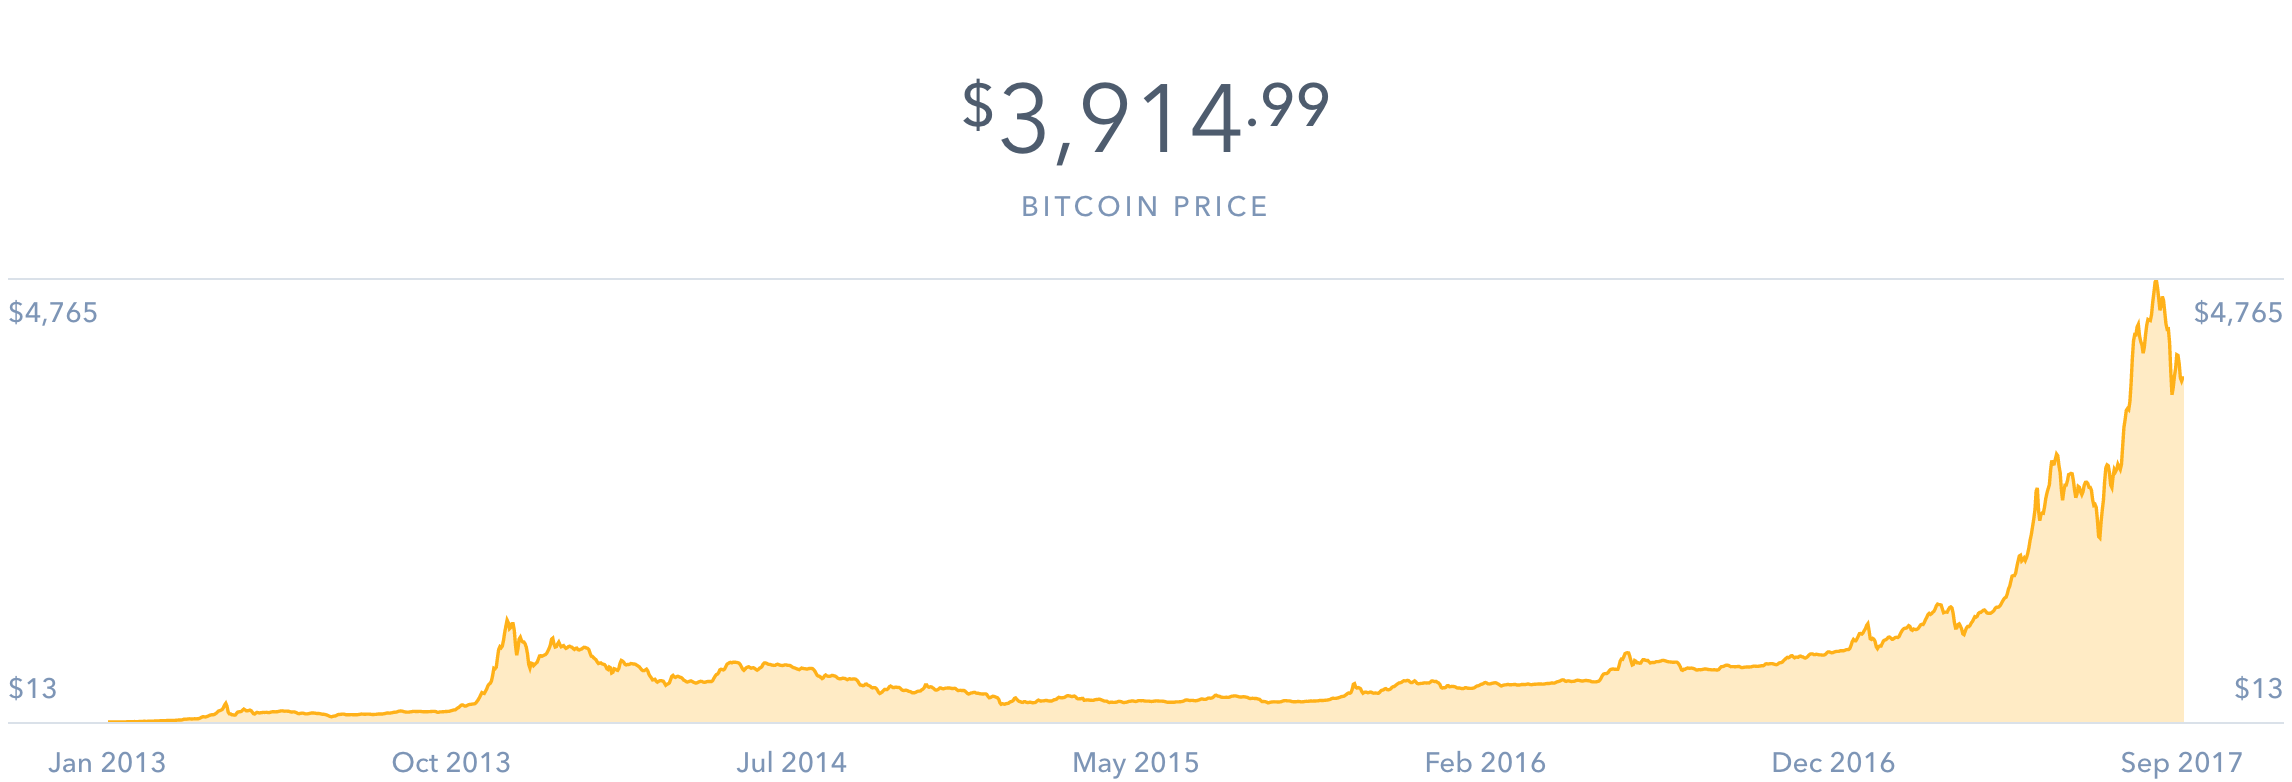
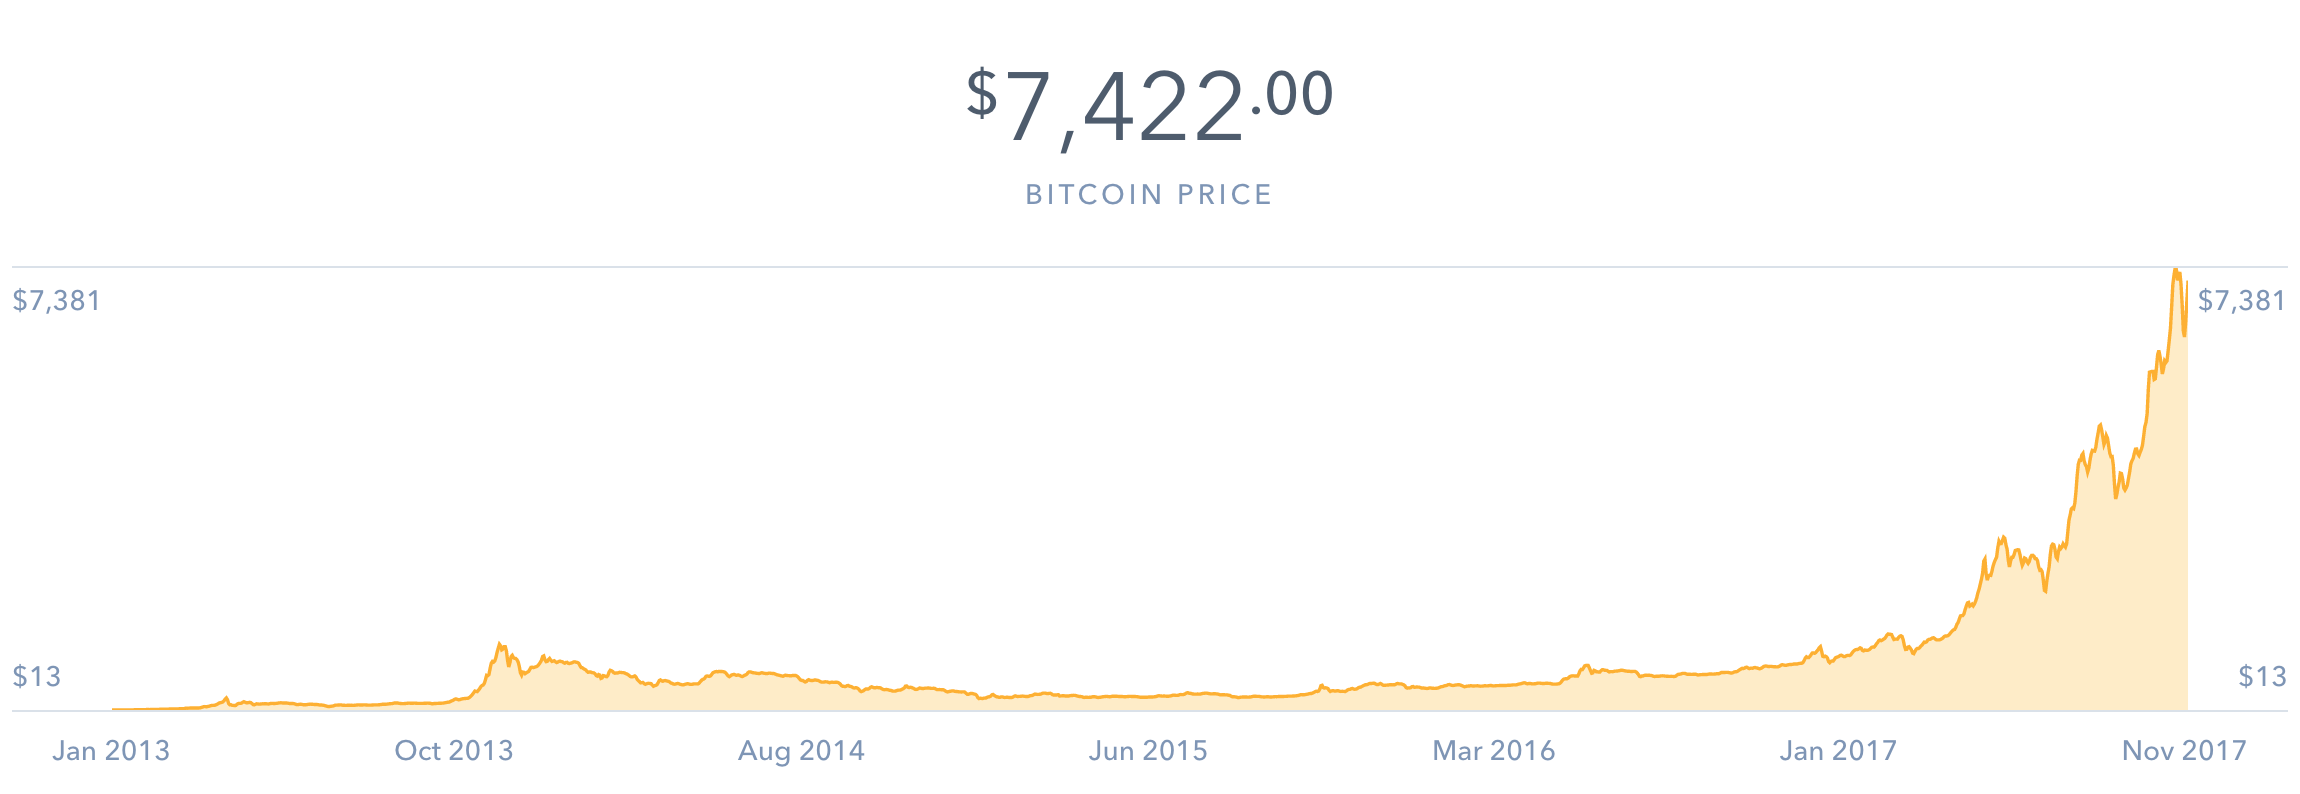
Update bitcoin price histor; swap 21.co for earn.com

diff --git a/index.html b/index.html
@@ -168,7 +168,7 @@ Brave browser automatically blocks ads and trackers and lets you pay publishers 
 
 ---
 
-background-image: url(img/21.co.png)
+background-image: url(img/earn.com.png)
 
 ???
 
